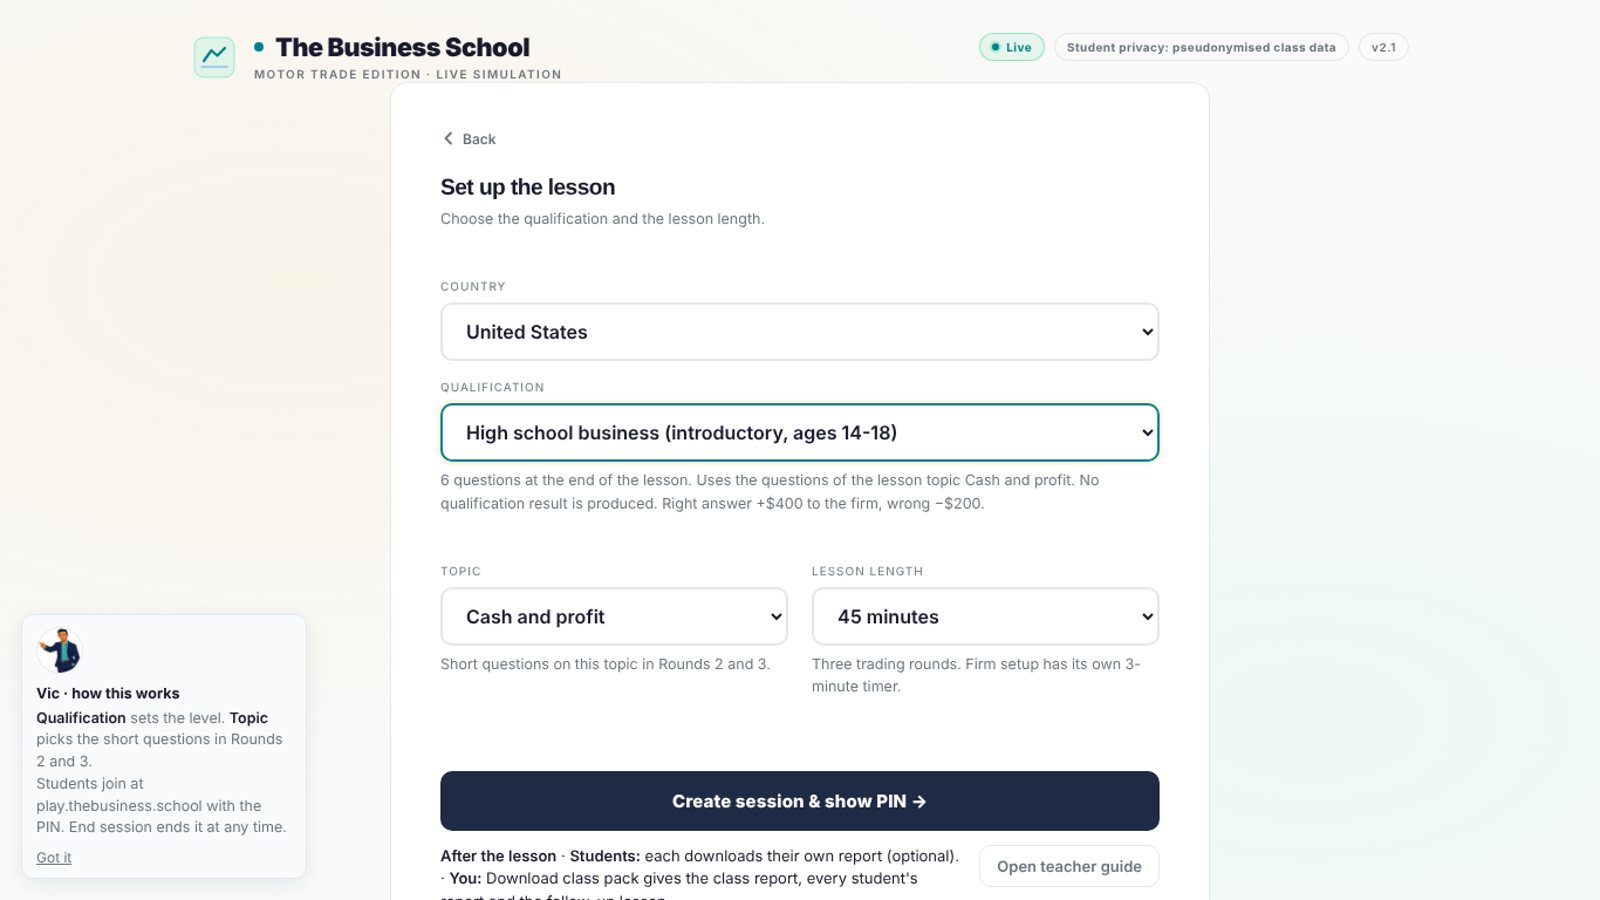
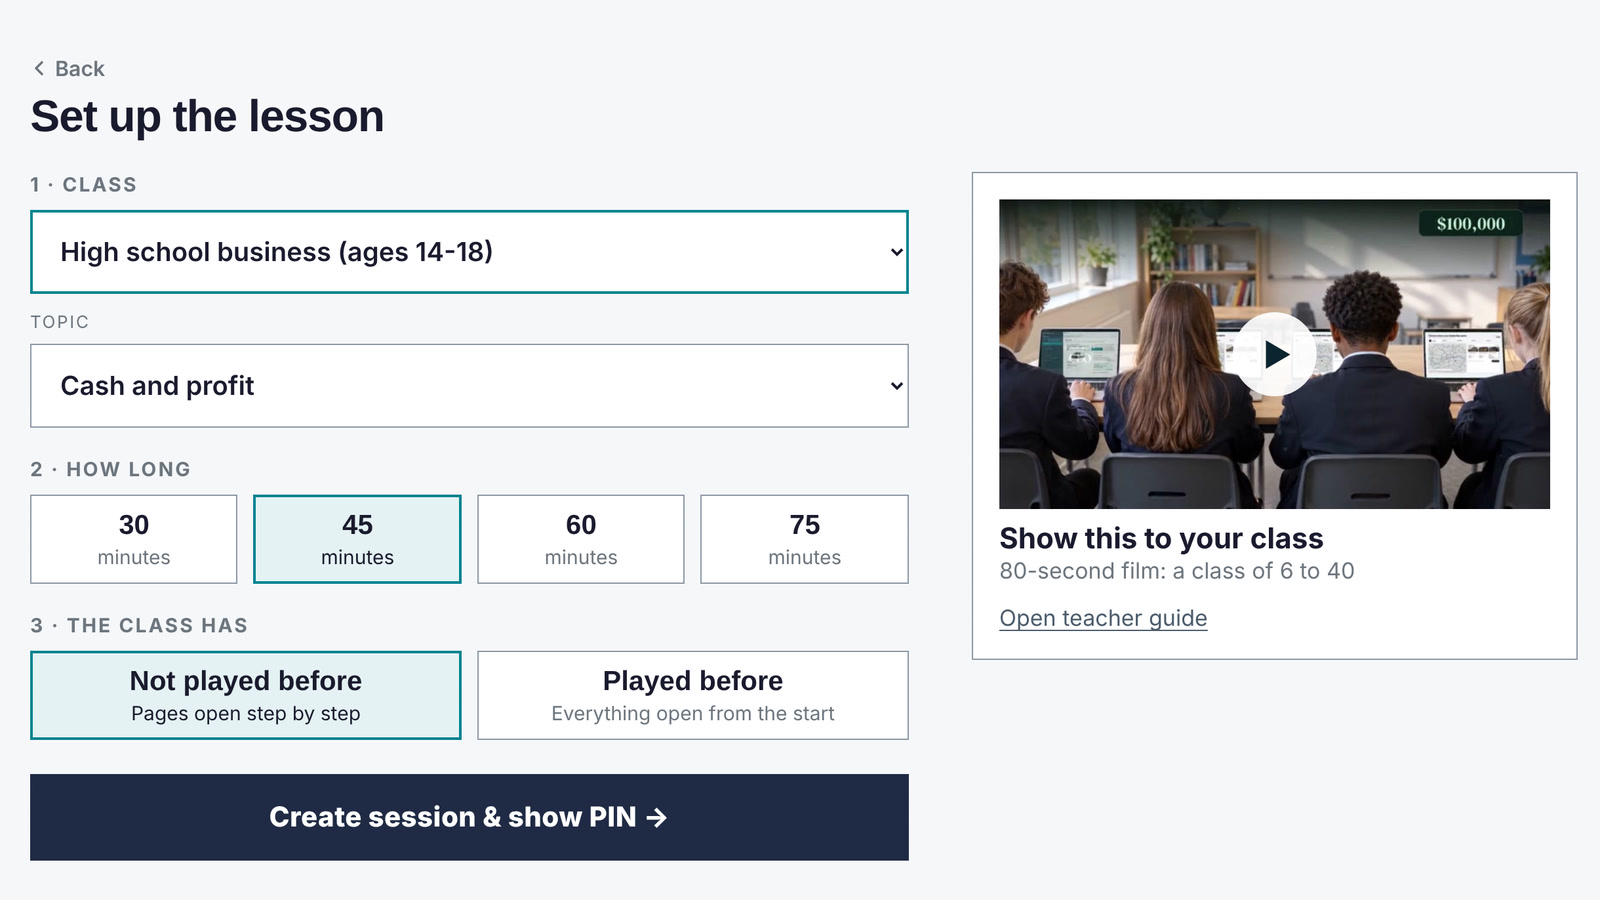
Website: setup screen pictures (UK, US) re-shot from the live game's new setup page (877f3ee8)
Claude-Session: https://claude.ai/code/session_01Np2n7mwxyzcaQWByNZ1ReD

diff --git a/us/index.html b/us/index.html
@@ -525,7 +525,7 @@
         <figcaption>The whole class joins with one PIN.</figcaption>
       </figure>
       <figure class="motor-gal-item">
-        <img src="/assets/tbs-web/us/us-v-02-setup.jpg" width="1920" height="1080" loading="lazy" decoding="async" alt="Teacher session setup with the course, the topic and the lesson length" />
+        <img src="/assets/tbs-web/us/us-v-02-setup.jpg?v=20261029s" width="1600" height="900" loading="lazy" decoding="async" alt="Teacher session setup with the course, the topic and the lesson length" />
         <figcaption>You pick the course, the topic and the lesson length.</figcaption>
       </figure>
       <figure class="motor-gal-item">

diff --git a/index.html b/index.html
@@ -621,7 +621,7 @@
         <figcaption>The whole class joins with one PIN.</figcaption>
       </figure>
       <figure class="motor-gal-item">
-        <img src="/assets/tbs-web/uk/uk-g-setup.jpg?v=20261028d" width="1600" height="900" loading="lazy" decoding="async" alt="Teacher lesson setup: the class and the lesson length" />
+        <img src="/assets/tbs-web/uk/uk-g-setup.jpg?v=20261029s" width="1600" height="900" loading="lazy" decoding="async" alt="Teacher lesson setup: the class and the lesson length" />
         <figcaption>You pick the class and the lesson length.</figcaption>
       </figure>
       <figure class="motor-gal-item">
